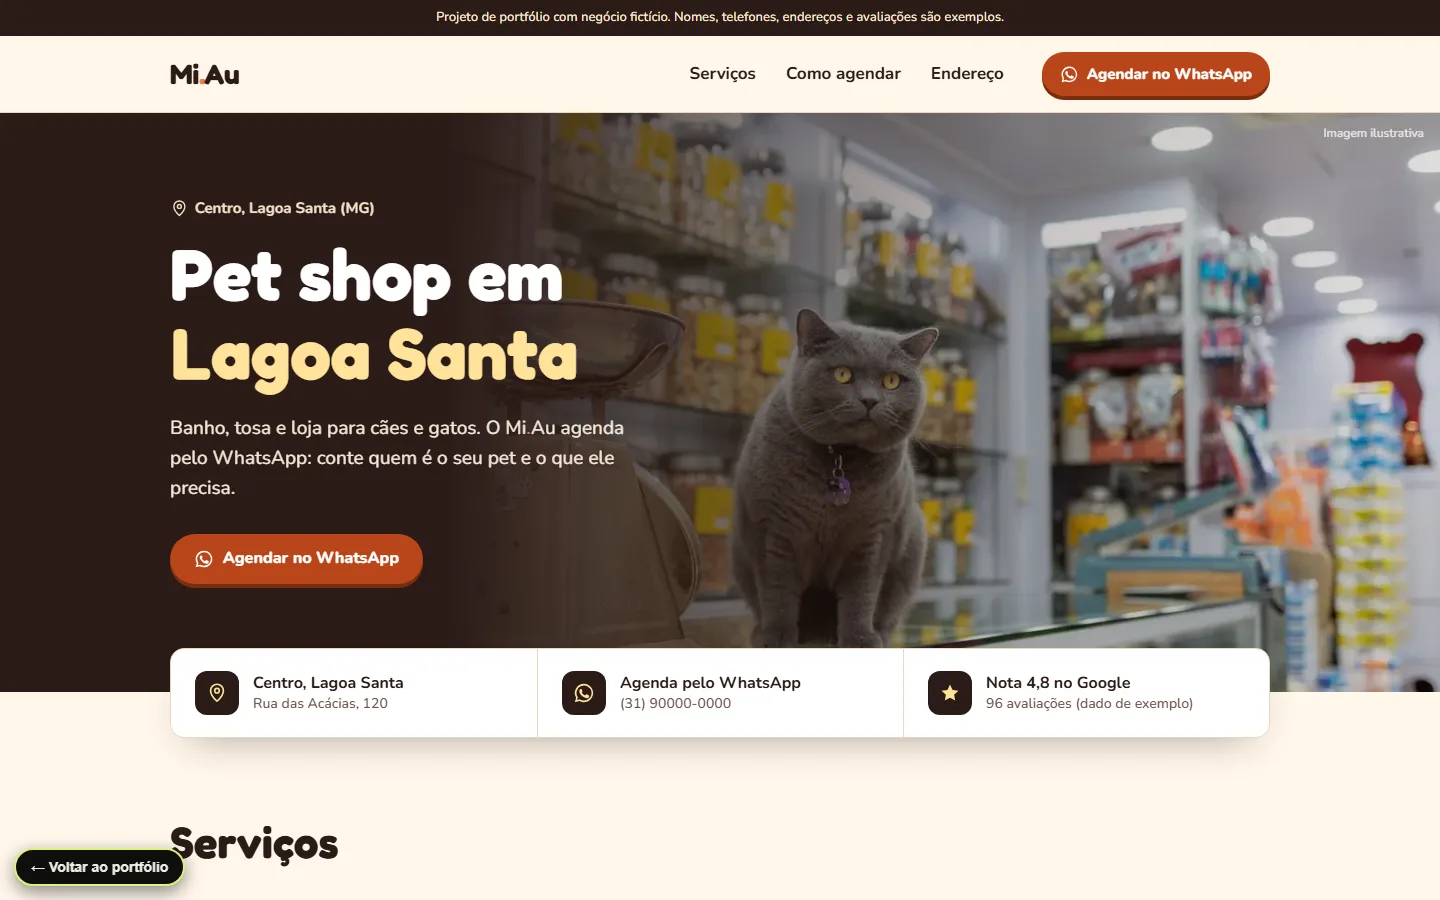
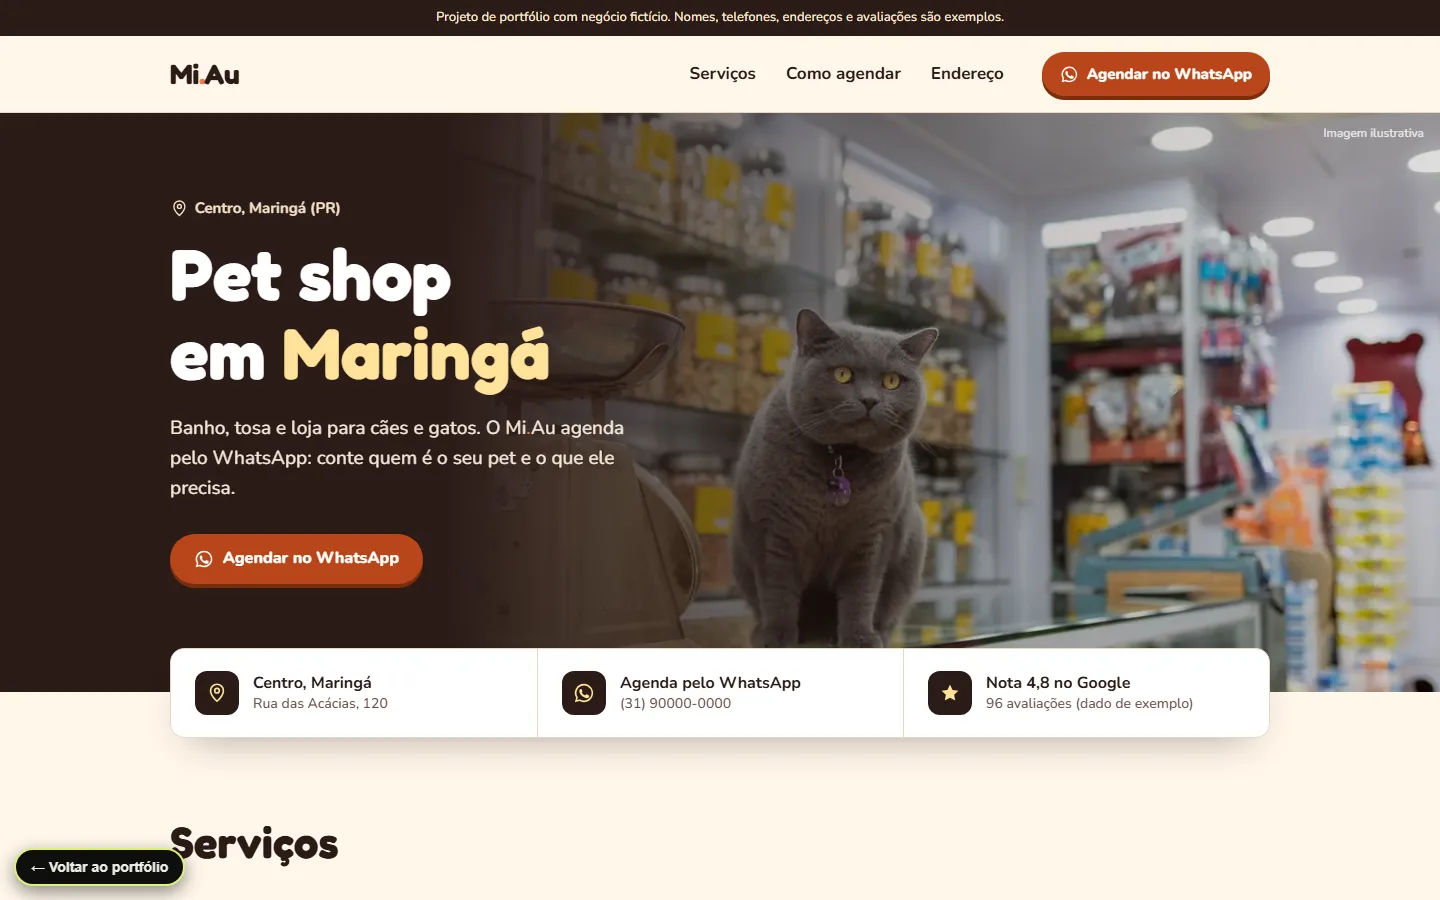
Mi.Au: cidade fictícia (Maringá, PR) e horários de exemplo

Changed region(s): [[0.0938, 0.28, 0.4062, 0.4356], [0.1562, 0.2178, 0.25, 0.2489], [0.2188, 0.7467, 0.2812, 0.7778]]

diff --git a/projetos/mi-au/index.html b/projetos/mi-au/index.html
@@ -3,8 +3,8 @@
 <head>
 <meta charset="utf-8">
 <meta name="viewport" content="width=device-width, initial-scale=1">
-<title>Mi.Au | Pet shop em Lagoa Santa</title>
-<meta name="description" content="Pet Shop Mi.Au, na Centro. Agende pelo WhatsApp. Segunda a sexta, 9h às 17h; sábado, 9h30 às 15h.">
+<title>Mi.Au | Pet shop em Maringá</title>
+<meta name="description" content="Pet Shop Mi.Au, no Centro de Maringá. Agende pelo WhatsApp. Segunda a sexta, 8h às 18h; sábado, 8h às 13h.">
 <!-- PROTÓTIPO: remover a linha abaixo quando o site for para o ar de verdade -->
 <meta name="robots" content="noindex, nofollow">
 <link rel="canonical" href="https://xandemartinsc.pages.dev/projetos/mi-au/">
@@ -13,8 +13,8 @@
 <meta property="og:type" content="website">
 <meta property="og:locale" content="pt_BR">
 <meta property="og:site_name" content="Mi.Au">
-<meta property="og:title" content="Mi.Au | Pet shop em Lagoa Santa">
-<meta property="og:description" content="Agende pelo WhatsApp. Rua das Acácias, 120, Centro, Lagoa Santa.">
+<meta property="og:title" content="Mi.Au | Pet shop em Maringá">
+<meta property="og:description" content="Agende pelo WhatsApp. Rua das Acácias, 120, Centro, Maringá.">
 <meta property="og:url" content="https://xandemartinsc.pages.dev/projetos/mi-au/">
 <meta name="twitter:card" content="summary_large_image">
 
@@ -33,13 +33,13 @@
   "address": {
     "@type": "PostalAddress",
     "streetAddress": "Rua das Acácias, 120, Centro",
-    "addressLocality": "Lagoa Santa",
-    "addressRegion": "MG",
+    "addressLocality": "Maringá",
+    "addressRegion": "PR",
     "addressCountry": "BR"
   },
   "openingHoursSpecification": [
-    {"@type": "OpeningHoursSpecification", "dayOfWeek": ["Monday", "Tuesday", "Wednesday", "Thursday", "Friday"], "opens": "09:00", "closes": "17:00"},
-    {"@type": "OpeningHoursSpecification", "dayOfWeek": "Saturday", "opens": "09:30", "closes": "15:00"}
+    {"@type": "OpeningHoursSpecification", "dayOfWeek": ["Monday", "Tuesday", "Wednesday", "Thursday", "Friday"], "opens": "08:00", "closes": "18:00"},
+    {"@type": "OpeningHoursSpecification", "dayOfWeek": "Saturday", "opens": "08:00", "closes": "13:00"}
   ]
 }
 </script>
@@ -85,8 +85,8 @@
       <img src="img/gato-balcao.webp" width="1100" height="1000" alt="" fetchpriority="high">
     </picture>
     <div class="caixa hero-conteudo">
-      <p class="hero-local"><svg class="ic" aria-hidden="true"><use href="#i-pin"/></svg> Centro, Lagoa Santa (MG)</p>
-      <h1>Pet shop em <span>Lagoa Santa</span></h1>
+      <p class="hero-local"><svg class="ic" aria-hidden="true"><use href="#i-pin"/></svg> Centro, Maringá (PR)</p>
+      <h1>Pet shop em <span>Maringá</span></h1>
       <p class="hero-lead">Banho, tosa e loja para cães e gatos. O Mi<span class="ponto">.</span>Au agenda pelo WhatsApp: conte quem é o seu pet e o que ele precisa.</p>
       <a class="botao" href="https://wa.me/5531900000000" data-zap target="_blank" rel="noopener">
         <svg class="ic" aria-hidden="true"><use href="#i-zap"/></svg> Agendar no WhatsApp
@@ -97,9 +97,9 @@
 
   <section class="confianca" aria-label="Informações rápidas">
     <div class="caixa confianca-grade">
-      <div class="confianca-item"><span class="confianca-ic"><svg><use href="#i-pin"/></svg></span><p><b>Centro, Lagoa Santa</b>Rua das Acácias, 120</p></div>
+      <div class="confianca-item"><span class="confianca-ic"><svg><use href="#i-pin"/></svg></span><p><b>Centro, Maringá</b>Rua das Acácias, 120</p></div>
       <a class="confianca-item" href="https://wa.me/5531900000000" data-zap target="_blank" rel="noopener"><span class="confianca-ic"><svg><use href="#i-zap"/></svg></span><p><b>Agenda pelo WhatsApp</b>(31) 90000-0000</p></a>
-      <a class="confianca-item" href="https://www.google.com/maps/search/?api=1&amp;query=Minas%20Gerais" target="_blank" rel="noopener"><span class="confianca-ic"><svg><use href="#i-star"/></svg></span><p><b>Nota 4,8 no Google</b>96 avaliações (dado de exemplo)</p></a>
+      <a class="confianca-item" href="https://www.google.com/maps/search/?api=1&amp;query=Paran%C3%A1" target="_blank" rel="noopener"><span class="confianca-ic"><svg><use href="#i-star"/></svg></span><p><b>Nota 4,8 no Google</b>96 avaliações (dado de exemplo)</p></a>
     </div>
   </section>
 
@@ -167,15 +167,15 @@
         <h2 id="titulo-visite">Endereço e horário</h2>
         <address>
           Rua das Acácias, 120<br>
-          Centro, Lagoa Santa (MG)
+          Centro, Maringá (PR)
         </address>
-        <a class="link-forte" href="https://www.google.com/maps/search/?api=1&amp;query=Minas%20Gerais" target="_blank" rel="noopener">Ver no Google Maps</a>
+        <a class="link-forte" href="https://www.google.com/maps/search/?api=1&amp;query=Paran%C3%A1" target="_blank" rel="noopener">Ver no Google Maps</a>
       </div>
       <div class="cartao-horario">
         <h3>Horário</h3>
         <dl>
-          <div><dt>Segunda a sexta</dt><dd>9h às 17h</dd></div>
-          <div><dt>Sábado</dt><dd>9h30 às 15h</dd></div>
+          <div><dt>Segunda a sexta</dt><dd>8h às 18h</dd></div>
+          <div><dt>Sábado</dt><dd>8h às 13h</dd></div>
           <div><dt>Domingo</dt><dd>Fechado</dd></div>
         </dl>
       </div>
@@ -188,7 +188,7 @@
   <div class="caixa rodape-grade">
     <div>
       <p class="rodape-nome">Mi<span class="ponto">.</span>Au</p>
-      <p>Pet shop na Centro, Lagoa Santa (MG)</p>
+      <p>Pet shop no Centro, Maringá (PR)</p>
       <a class="botao" href="https://wa.me/5531900000000" data-zap target="_blank" rel="noopener">
         <svg class="ic" aria-hidden="true"><use href="#i-zap"/></svg> Agendar no WhatsApp
       </a>
@@ -202,7 +202,7 @@
       <ul>
         <li>WhatsApp <a href="https://wa.me/5531900000000" data-zap target="_blank" rel="noopener">(31) 90000-0000</a></li>
         <li>Rua das Acácias, 120, Centro</li>
-        <li>Seg a sex 9h às 17h · Sáb 9h30 às 15h</li>
+        <li>Seg a sex 8h às 18h · Sáb 8h às 13h</li>
       </ul>
     </div>
   </div>
